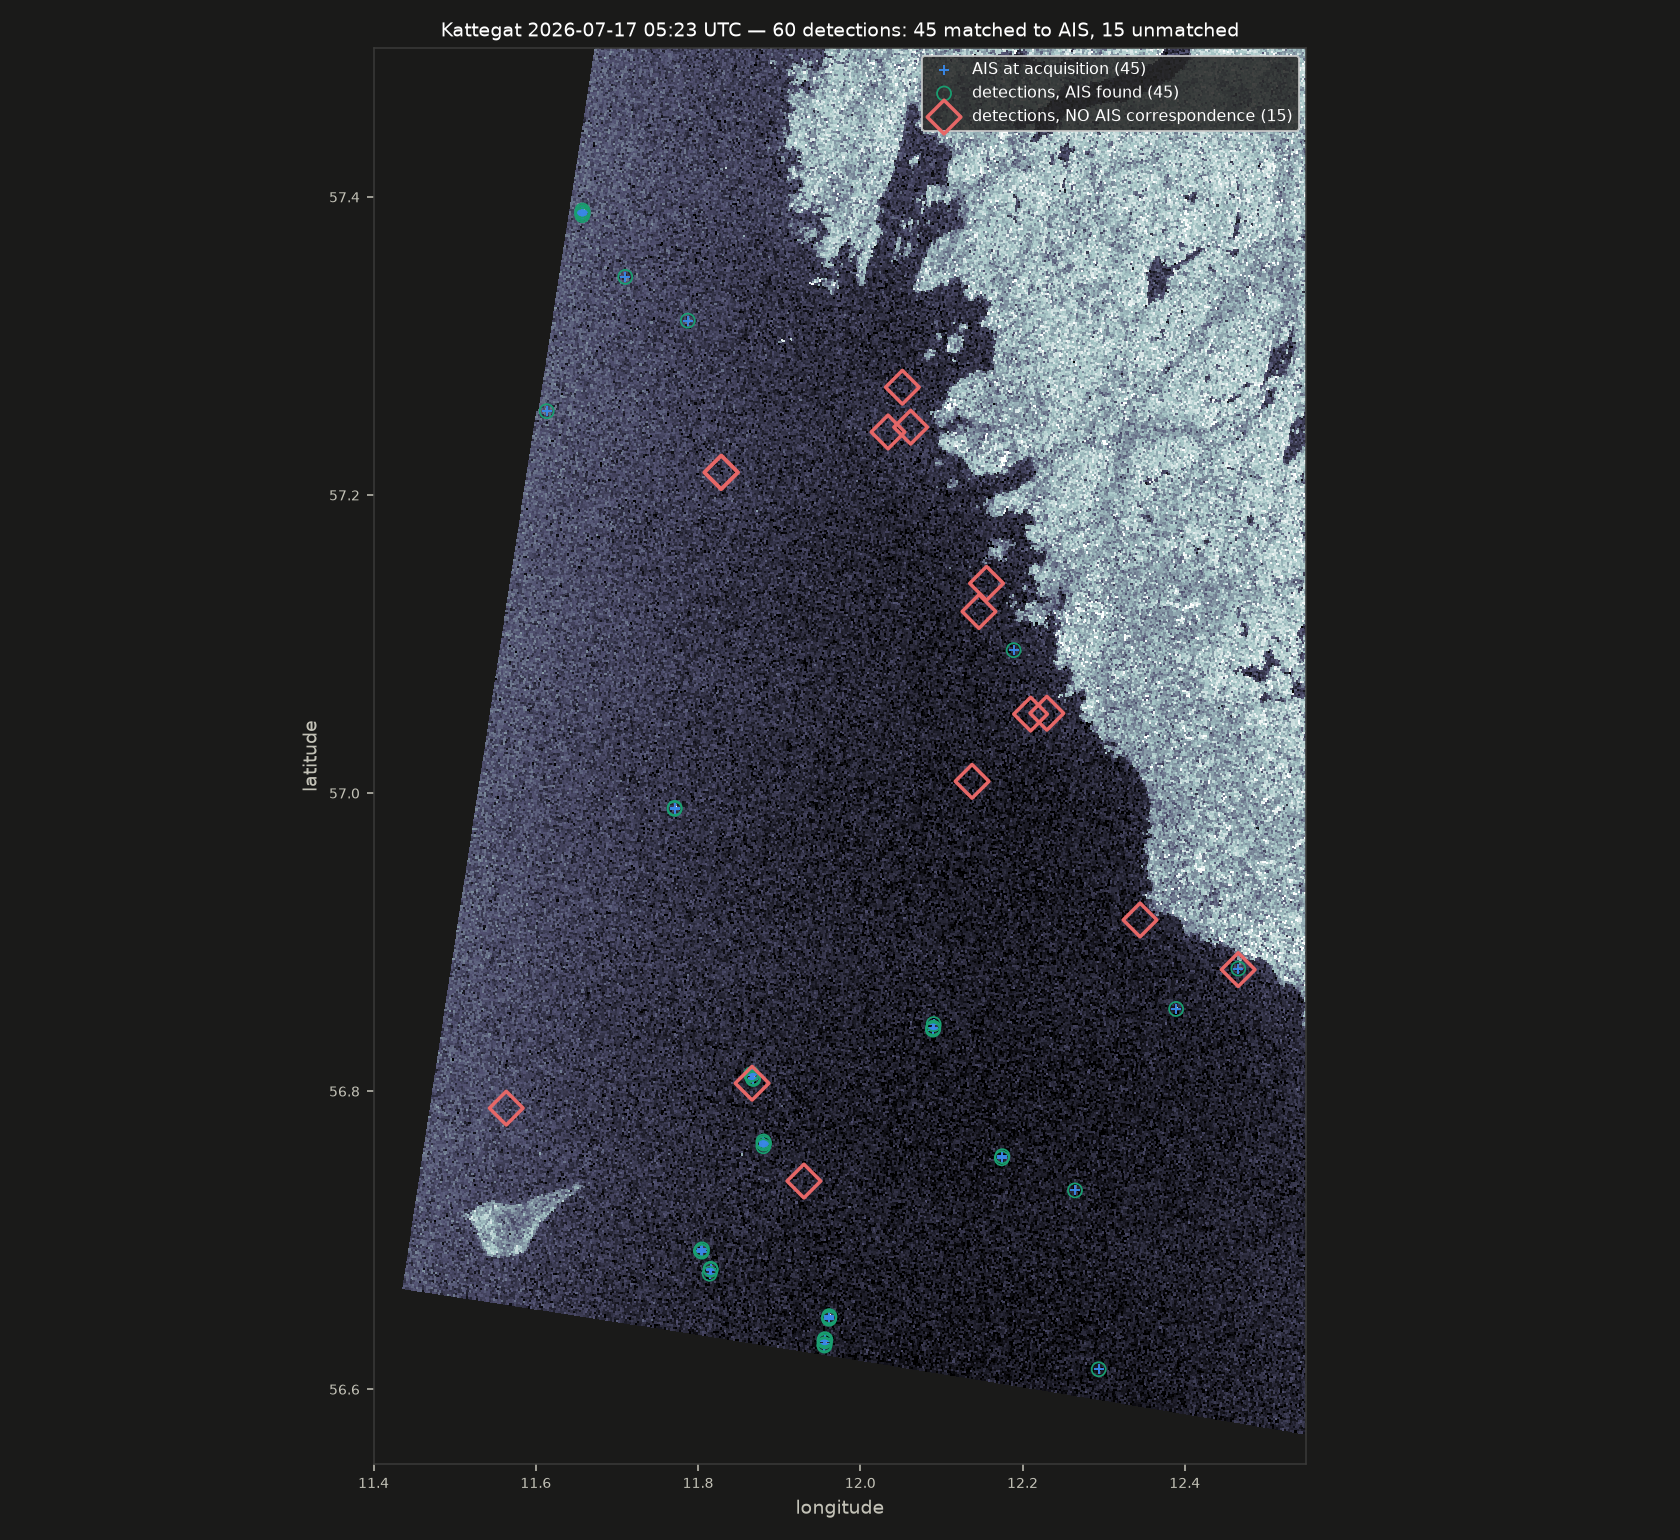
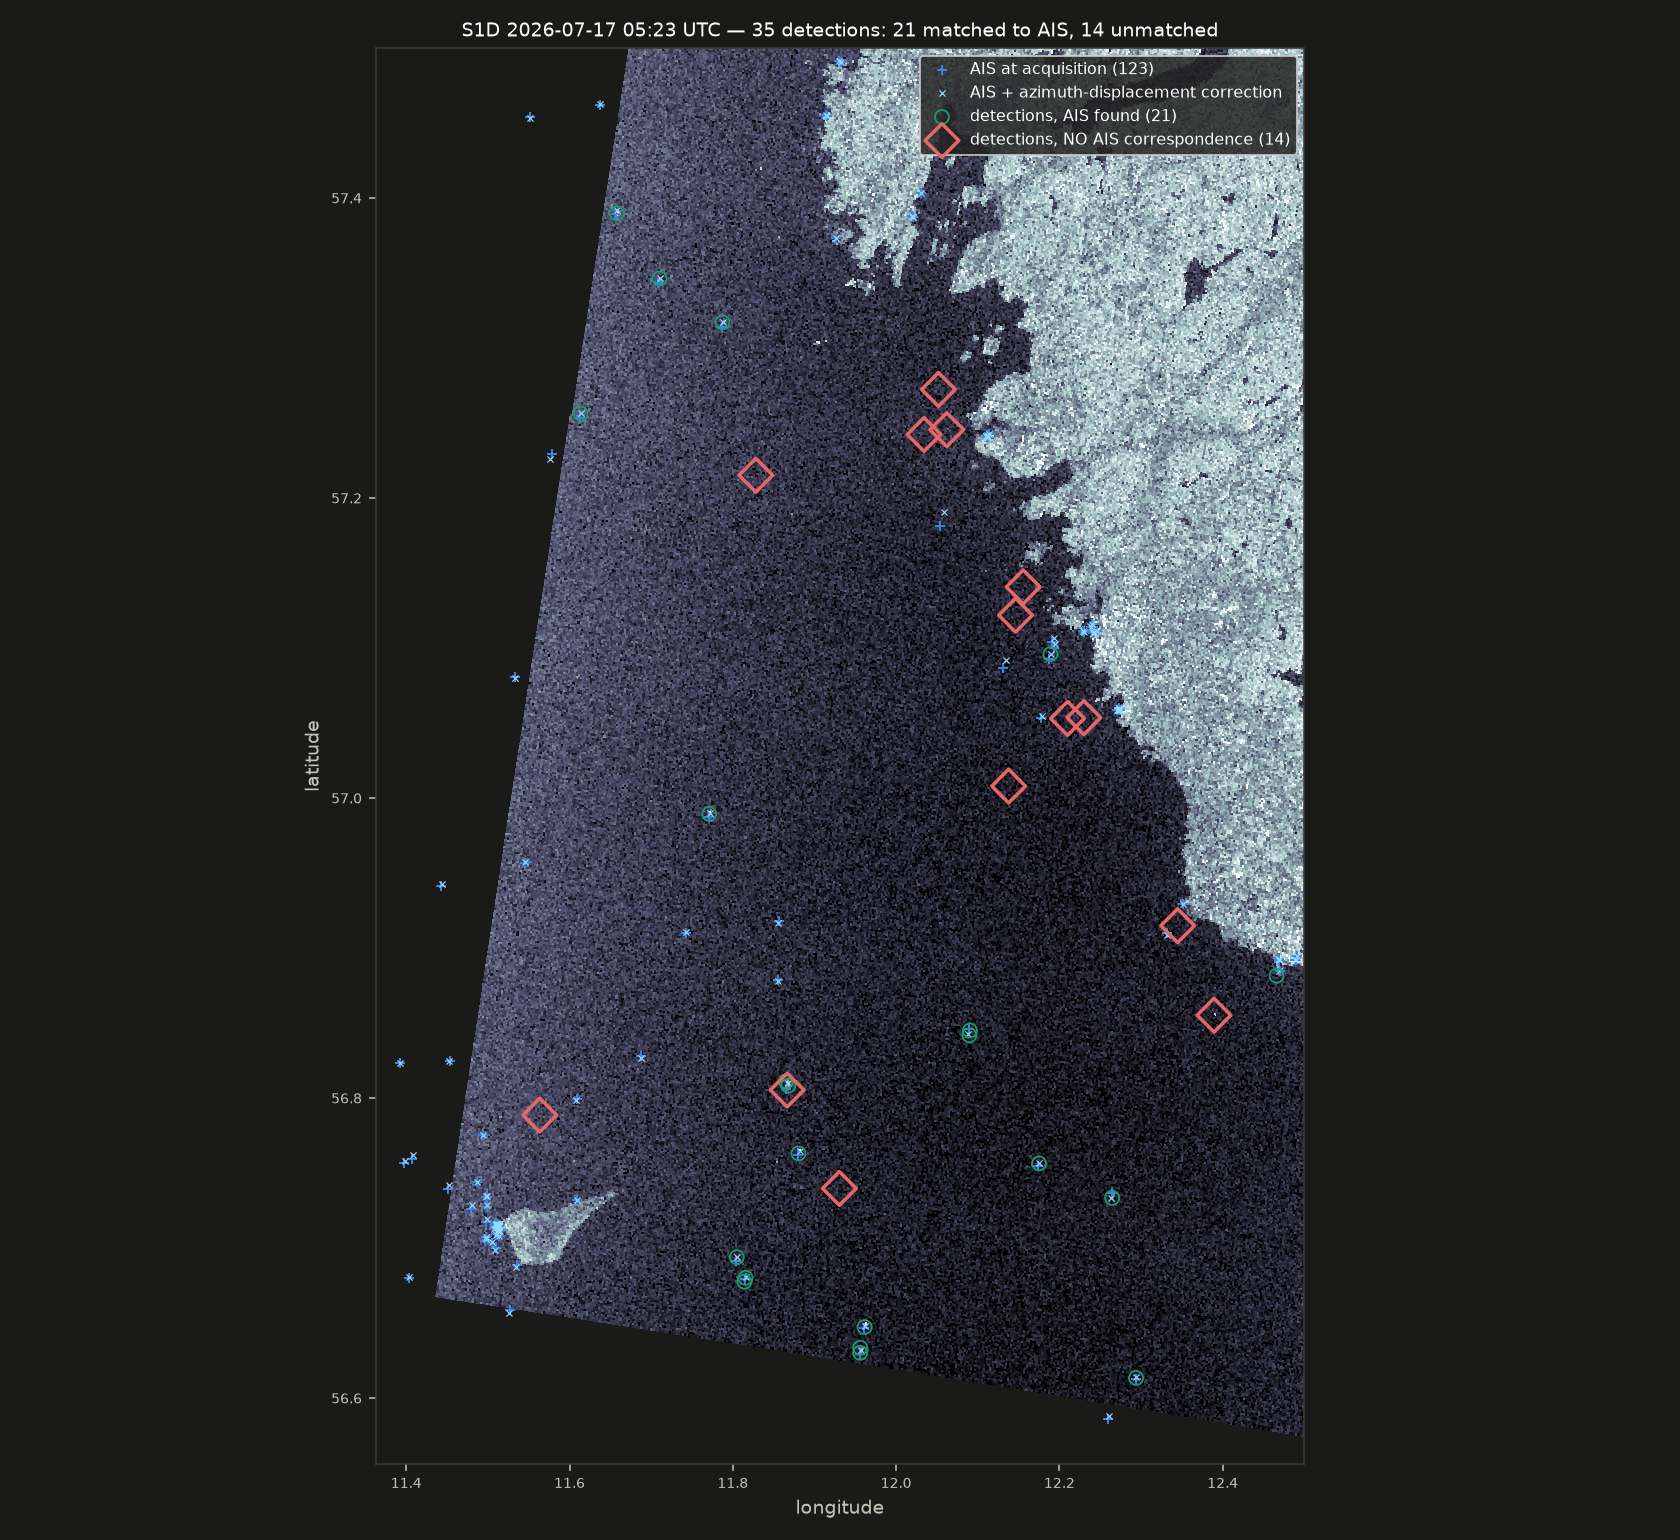
The map had no home in the CLI, so nothing could redraw it
`map_view()` has been in spatial/render.py since 6d86259 and has never been
called from cli.py in any commit. `docs/evidence/map_result.png` came from an
ad-hoc invocation during M3 and then sat there while the numbers moved past it:
60 detections, 45 matched, 15 unmatched, four days after merging made those
35 / 21 / 14. The `render` subcommand's help advertised a map it never wrote.

It is not a missing call, it is a missing home. `render` runs the detector and
has no AIS in hand; `dark` has the join but not the granule. `validate_azimuth_shift`
is the only place holding all four at once — the pixels, the detections, the AIS
interpolated onto the acquisition instant, and the azimuth-corrected positions —
so the map is drawn there, behind an opt-in `map_path`. The map and the azimuth
table now come out of one measurement instead of two opinions that can drift.
`make dark-proof` passes `--map`, so the file is reproducible for the first time.

Nothing existing changed shape: `map_path` defaults to None, `--map` is optional,
and cmd_dark, dark_query, dark_vessels.sql and the detector are untouched. The
full proof still returns 35 / 21 / 14 / 40.0%, rate quotable.

Checked detection by detection rather than on the totals, because two code paths
agreeing on a count is exactly how they hide disagreeing on the contents. The
numpy nearest-neighbour split and the PostGIS join name the same fourteen —
[…]

Changed region(s): [[0.2167, 0.0, 0.8048, 0.9351], [0.1857, 0.6857, 0.2167, 0.7169], [0.1857, 0.4987, 0.2167, 0.5299]]

diff --git a/src/nightglass/spatial/validate.py b/src/nightglass/spatial/validate.py
@@ -142,6 +142,8 @@ def validate_azimuth_shift(
     coastline: Coastline | None = None,
     config: DetectorConfig | None = None,
     out_dir: Path | None = None,
+    map_path: Path | None = None,
+    radius_m: float = 500.0,
 ) -> ShiftReport:
     product = SafeProduct(granule)
     acq = product.acquisition
@@ -242,6 +244,53 @@ def validate_azimuth_shift(
         from nightglass.spatial.plots import plot_validation
 
         plot_validation(report, det_pairs=pairs, out_dir=out_dir)
+
+    # The map belongs here and nowhere else. `render` runs the detector and has
+    # no AIS in hand; `dark` has the join but not the granule. This function is
+    # the only place holding all four at once — the pixels, the detections, the
+    # AIS interpolated onto the acquisition instant, and the azimuth-corrected
+    # positions — so a map drawn from anywhere else would be drawing a second
+    # opinion. Off by default: passing no path changes nothing.
+    if map_path is not None:
+        from nightglass.spatial import render as R
+
+        ap_lon, ap_lat = apparent_position(
+            alon, alat, sog, cog, inc, rv,
+            acq.range_bearing_deg, acq.azimuth_bearing_deg, sign=report.best_sign,
+        )
+        dark_ids = {
+            detections[i].id for i in range(len(detections)) if v["nearest"][i] >= radius_m
+        }
+        matched = len(detections) - len(dark_ids)
+        # Frame what is actually drawn, which is neither the AOI nor the granule
+        # footprint. A descending Sentinel-1 swath crosses a rectangular AOI as a
+        # parallelogram: the AOI extent leaves most of the canvas empty, and the
+        # footprint's own bounding box reaches south past the AOI's longitude
+        # range and leaves a dead band under the imagery. The detections and the
+        # AIS are the subject, so they set the frame — this figure exists to be
+        # judged by eye, and a detection too small to look at is not evidence.
+        pad = 0.03
+        zoom = BBox(
+            max(bbox.min_lon, float(min(dlon.min(), alon.min())) - pad),
+            max(bbox.min_lat, float(min(dlat.min(), alat.min())) - pad),
+            min(bbox.max_lon, float(max(dlon.max(), alon.max())) + pad),
+            min(bbox.max_lat, float(max(dlat.max(), alat.max())) + pad),
+        )
+        R.map_view(
+            product,
+            bbox,
+            detections,
+            map_path,
+            ais=list(zip(alon.tolist(), alat.tolist())),
+            ais_apparent=list(zip(ap_lon.tolist(), ap_lat.tolist())),
+            dark_ids=dark_ids,
+            zoom=zoom,
+            pol=(config or DetectorConfig()).polarization,
+            title=(
+                f"{acq.scene_id.split('_')[0]} {acq.acquisition_time:%Y-%m-%d %H:%M} UTC — "
+                f"{len(detections)} detections: {matched} matched to AIS, {len(dark_ids)} unmatched"
+            ),
+        )
     return report
 
 

diff --git a/src/nightglass/spatial/cli.py b/src/nightglass/spatial/cli.py
@@ -456,6 +456,7 @@ def cmd_validate_shift(args: argparse.Namespace) -> int:
         window_min=args.window_min,
         coastline=_coastline(args, aoi_name),
         out_dir=Path(args.out) if args.out else None,
+        map_path=Path(args.map) if args.map else None,
     )
     _rule("azimuth displacement — measured, not argued")
     print(report.render())
@@ -639,9 +640,14 @@ def main(argv: list[str] | None = None) -> int:
     _add_coastline_args(v)
     v.add_argument("--window-min", type=float, default=11.0)
     v.add_argument("--out", default="/app/data/out")
+    v.add_argument(
+        "--map",
+        help="also render detections and AIS over the SAR backdrop to this path. "
+             "This is the only command holding pixels, detections and AIS at once.",
+    )
     v.set_defaults(func=cmd_validate_shift)
 
-    r = sub.add_parser("render", help="Chips, overview and map — the evidence.")
+    r = sub.add_parser("render", help="Chips and scene overview — the evidence.")
     r.add_argument("granule")
     _add_aoi_args(r)
     _add_coastline_args(r)

diff --git a/docs/detection.md b/docs/detection.md
@@ -120,27 +120,27 @@ pipeline rather than a debugging afterthought.
 
 ![detections vs AIS](evidence/map_result.png)
 
-Matched detections carry an AIS fix inside them and sit in open water. The unmatched ones
-cluster on the coastal edge — with two genuine open-water exceptions, which is exactly the kind
-of thing an analyst should be handed.
+Matched detections carry an AIS fix inside them and sit in open water. The unmatched ones cluster
+on the coastal edge — with three genuine open-water exceptions, `det_00026`, `det_00022` and
+`det_00027`, which is exactly the kind of thing an analyst should be handed.
 
-**This map predates fragment merging, and nothing currently regenerates it.** Its own title says
-60 detections, 45 matched, 15 unmatched — the pre-merge counts. The spatial pattern it is shown
-for, matched offshore and unmatched hugging the coast, is what merging does not change; the
-numbers printed on it are stale. Read the counts from the table above and the geometry from here.
+**This figure used to be the one piece of evidence nothing could regenerate.** `map_view()`
+existed in [`spatial/render.py`](../src/nightglass/spatial/render.py) and no code path called it:
+`render` runs the detector and has no AIS in hand, `dark` has the join but not the pixels, so the
+committed map sat at its pre-merge counts — 60 detections, 45 matched, 15 unmatched — while every
+number beside it had moved on. The `render` subcommand's help even advertised a map it never wrote.
 
-The reason it is stale is worth stating rather than hiding: `render.map_view()` still exists in
-[`spatial/render.py`](../src/nightglass/spatial/render.py), but `nightglass-spatial render` no
-longer calls it — it writes `chips_top`, `chips_spread` and `overview` only, because `render`
-runs the detector and has no AIS in hand, and the AIS join lives in `dark`. So the subcommand's
-own help ("chips, overview and map") promises a map it does not produce, and no `make` target
-regenerates this file. Wiring the map render into `dark`, where the matches actually are, is the
-fix; it is on the [three-weeks list](roadmap.md).
+It is drawn by `validate-shift --map` now, and `make dark-proof` passes that flag. That command is
+the only place holding all four things at once — the pixels, the detections, the AIS interpolated
+onto the acquisition instant, and the azimuth-corrected positions — so the map and the table above
+come from one measurement rather than two opinions. The matched/dark split it draws was checked
+against the SQL join detection by detection, not just on the totals: the same fourteen ids, at the
+same positions.
 
-The rest of the evidence *is* reproducible: `make dark-proof` writes `chips_top.png`,
-`chips_spread.png` and `overview.png` into `data/out/`, plus `azimuth_correction.png` and
-`length_agreement.png`, and the committed copies in [`docs/evidence/`](evidence) are byte-identical
-to what that run produces.
+All of it is reproducible: `make dark-proof` writes `chips_top.png`, `chips_spread.png`,
+`overview.png`, `azimuth_correction.png`, `length_agreement.png` and `map_result.png` into
+`data/out/`, and the committed copies in [`docs/evidence/`](evidence) are byte-identical to what
+that run produces.
 
 ### It generalises
 

diff --git a/docs/roadmap.md b/docs/roadmap.md
@@ -5,11 +5,6 @@
 Each of these is a named gap in [limitations](limitations.md) rather than a feature wish.
 
 - Real CFAR with sea-state adaptation, rather than one threshold per block
-- **Put the map render back.** `render.map_view()` — detections and AIS over the SAR backdrop,
-  the picture in [detection.md](detection.md) — is still in `spatial/render.py` and nothing calls
-  it. `nightglass-spatial render` runs the detector and has no AIS in hand, so the call belongs in
-  `dark`, where the matches are. Until then `docs/evidence/map_result.png` cannot be regenerated
-  and the `render` subcommand's help promises a map it does not write.
 - **Fix coastal precision properly.** The shoreline buffer is a blunt instrument that trades
   real vessels for clutter. A hydrographic layer with harbour limits, aids to navigation and
   fixed-structure catalogues (wind farms, platforms) would let near-shore detections be
